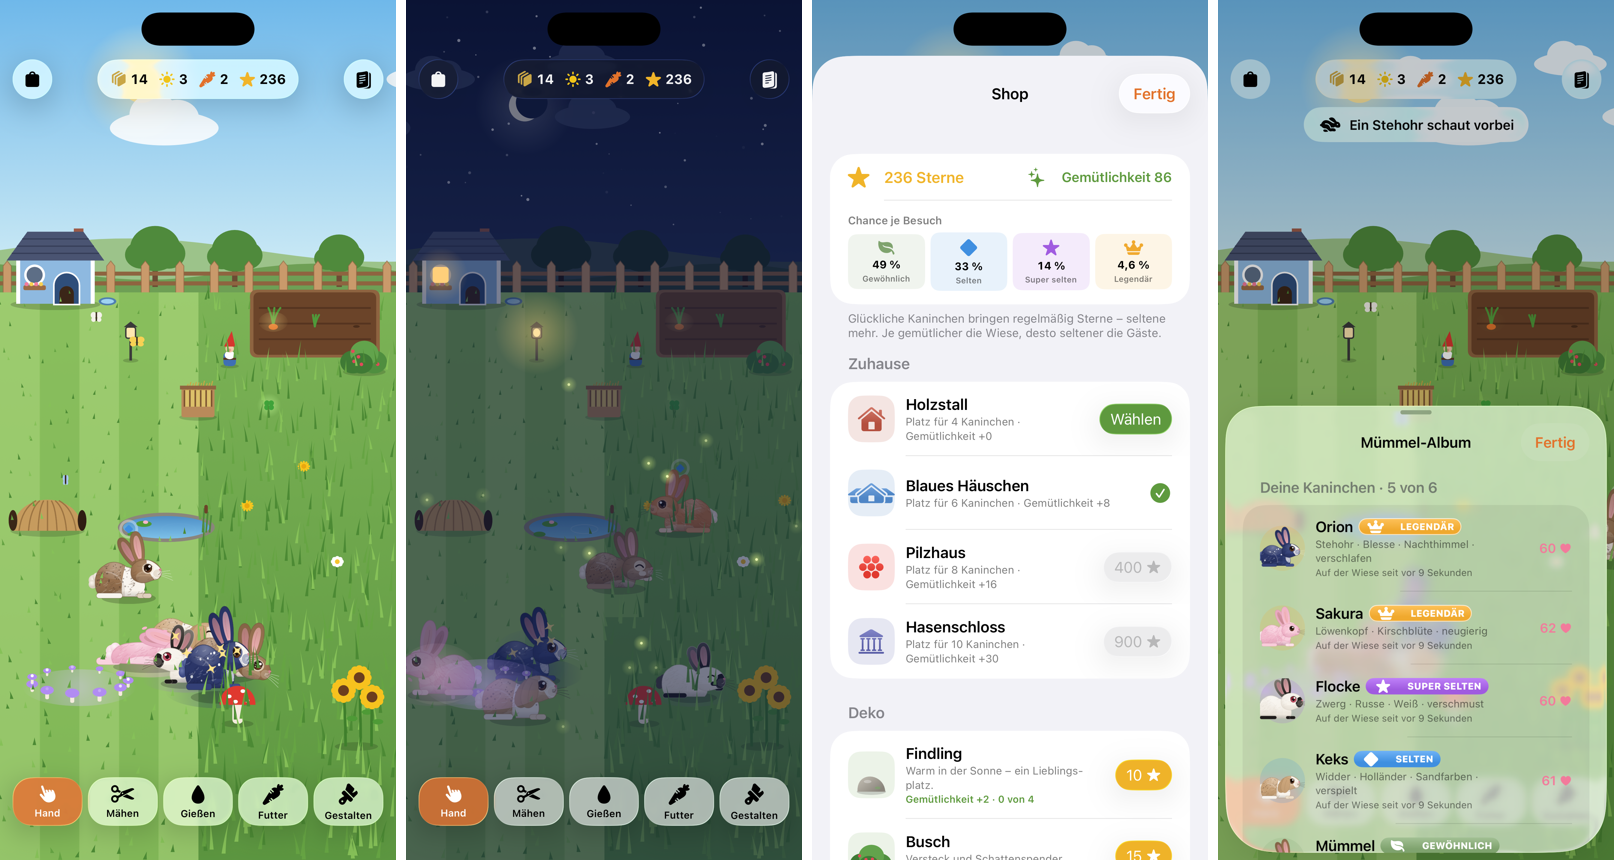
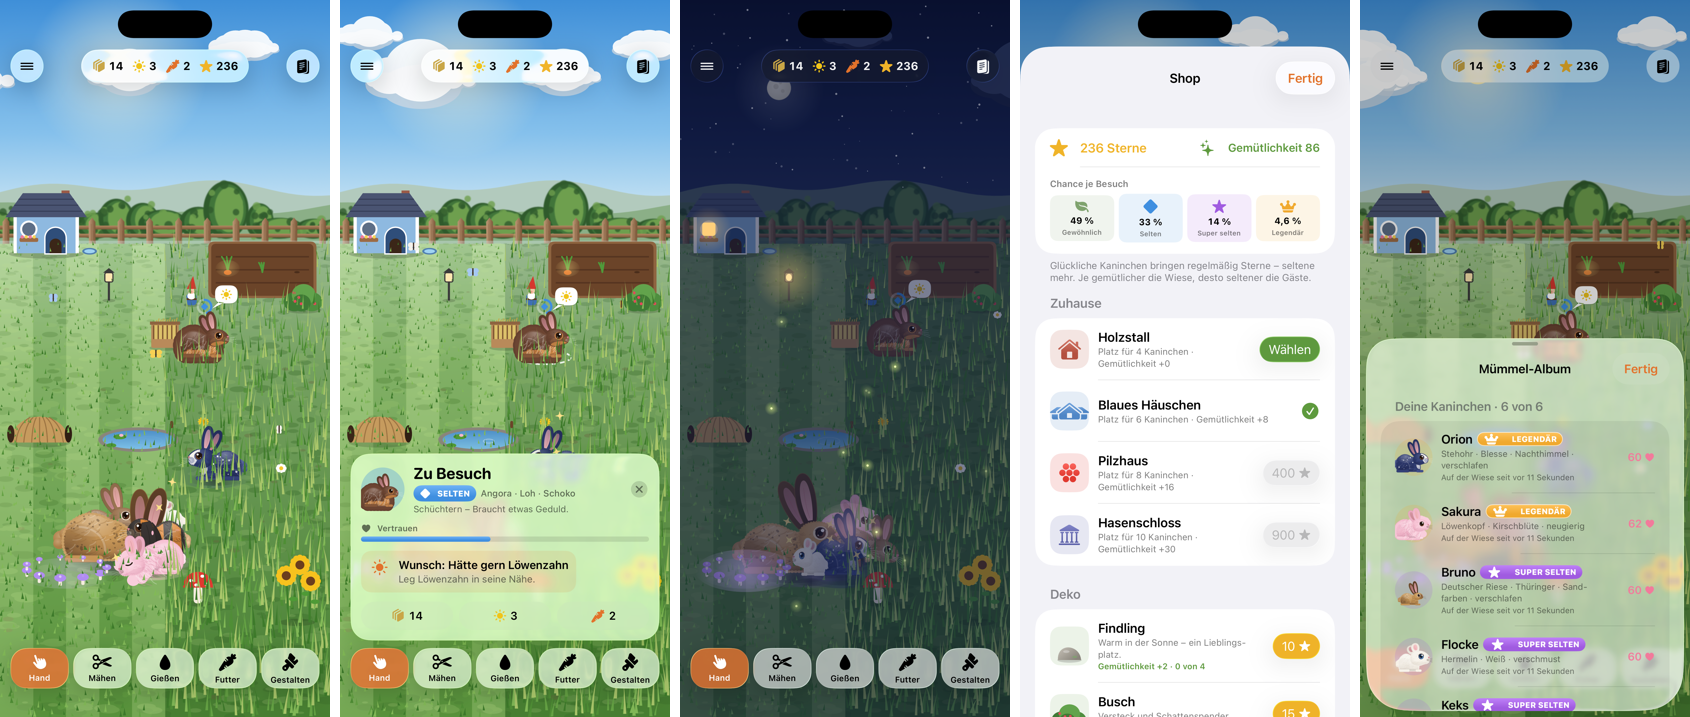
Mümmelwiese: natürlichere Baumreihe, dezentere Bodenstruktur, neue Screenshots
Claude-Session: https://claude.ai/code/session_01EtjqkbaMz8WmBYnXtLx2UF

diff --git a/Muemmelwiese/Muemmelwiese/Game/GardenRenderer.swift b/Muemmelwiese/Muemmelwiese/Game/GardenRenderer.swift
@@ -216,21 +216,18 @@ enum GardenRenderer {
                 let h = (22 + hash(k, 71) * 26 + (hash(k, 72) > 0.85 ? 22 : 0)) * unit
                 let w = (16 + hash(k, 73) * 16) * unit
                 let base = top - 6 * unit
-                for (n, color) in [dark, mid, lit].enumerated() {
-                    let shrink = CGFloat(n) * 0.18
-                    let rect = CGRect(x: x - w * (1 - shrink) + CGFloat(n) * 2, y: base - h * (1 - shrink * 0.4) - CGFloat(n) * 1.5,
-                                      width: w * 2 * (1 - shrink), height: h * (1 - shrink * 0.6))
-                    l.fill(Path(ellipseIn: rect), with: .color(color))
-                }
-                // Blattwerk
-                if detailed {
-                    for b in 0..<10 {
-                        let bx = x + (hash(k, b, 74) - 0.5) * w * 1.6
-                        let by = base - hash(k, b, 75) * h
-                        let br = (2.5 + hash(k, b, 76) * 3) * unit
-                        l.fill(Path(ellipseIn: CGRect(x: bx - br, y: by - br, width: br * 2, height: br * 2)),
-                               with: .color((b % 3 == 0 ? lit : dark).opacity(0.8)))
-                    }
+                // Krone aus vielen Laubbüscheln: unten dunkel, oben vom Licht getroffen
+                l.fill(Path(ellipseIn: CGRect(x: x - w * 0.8, y: base - h * 0.85, width: w * 1.6, height: h * 0.85)),
+                       with: .color(dark))
+                let tufts = detailed ? 22 : 10
+                for b in 0..<tufts {
+                    let u = hash(k, b, 74), v = hash(k, b, 75)
+                    let bx = x + (u - 0.5) * w * 1.7 * (0.6 + v * 0.4)
+                    let by = base - v * h
+                    let br = (4 + hash(k, b, 76) * 6) * unit * (1.1 - v * 0.4)
+                    let color = v > 0.62 ? lit : (v > 0.3 ? mid : dark)
+                    l.fill(Path(ellipseIn: CGRect(x: bx - br, y: by - br * 0.85, width: br * 2, height: br * 1.7)),
+                           with: .color(color.opacity(0.92)))
                 }
                 x += w * (1.1 + hash(k, 77) * 0.5)
                 k += 1
@@ -284,7 +281,7 @@ enum GardenRenderer {
             let x = hash(k, 92) * size.width
             let sc = 0.5 + fy * 1.2
             let r = (1.5 + hash(k, 93) * 5) * sc
-            let rect = CGRect(x: x - r * 1.6, y: y - r * 0.55, width: r * 3.2, height: r * 1.1)
+            let rect = CGRect(x: x - r * 2.4, y: y - r * 0.4, width: r * 4.8, height: r * 0.8)
             let pick = hash(k, 94)
             if pick < 0.45 { darkDots.addEllipse(in: rect) }
             else if pick < 0.88 { lightDots.addEllipse(in: rect) }
@@ -298,8 +295,8 @@ enum GardenRenderer {
                 }
             }
         }
-        ctx.fill(darkDots, with: .color(mix(Color(hex: 0x3B6E2A), .black, night * 0.3).opacity(0.35)))
-        ctx.fill(lightDots, with: .color(mix(Color(hex: 0xA9CF7C), .black, night * 0.3).opacity(0.3)))
+        ctx.fill(darkDots, with: .color(mix(Color(hex: 0x3B6E2A), .black, night * 0.3).opacity(0.16)))
+        ctx.fill(lightDots, with: .color(mix(Color(hex: 0xA9CF7C), .black, night * 0.3).opacity(0.14)))
         ctx.fill(soil, with: .color(mix(Color(hex: 0x7A6244), .black, night * 0.3).opacity(0.35)))
         ctx.fill(clover, with: .color(mix(Color(hex: 0x5C9A3E), .black, night * 0.3).opacity(0.8)))
         // Dunst über dem fernen Rasen

diff --git a/Muemmelwiese/README.md b/Muemmelwiese/README.md
@@ -2,7 +2,9 @@
 
 # Mümmelwiese
 
-![Tag, Nacht, Shop, Album](screenshots.png)
+![Tag, Wunsch, Nacht, Shop, Album](screenshots.png)
+
+![Querformat](querformat.png)
 
 Eigenständiges Kaninchen-Spiel (SwiftUI, iOS 26) – eine Art Tamagotchi auf einer lebendigen Wiese.
 
